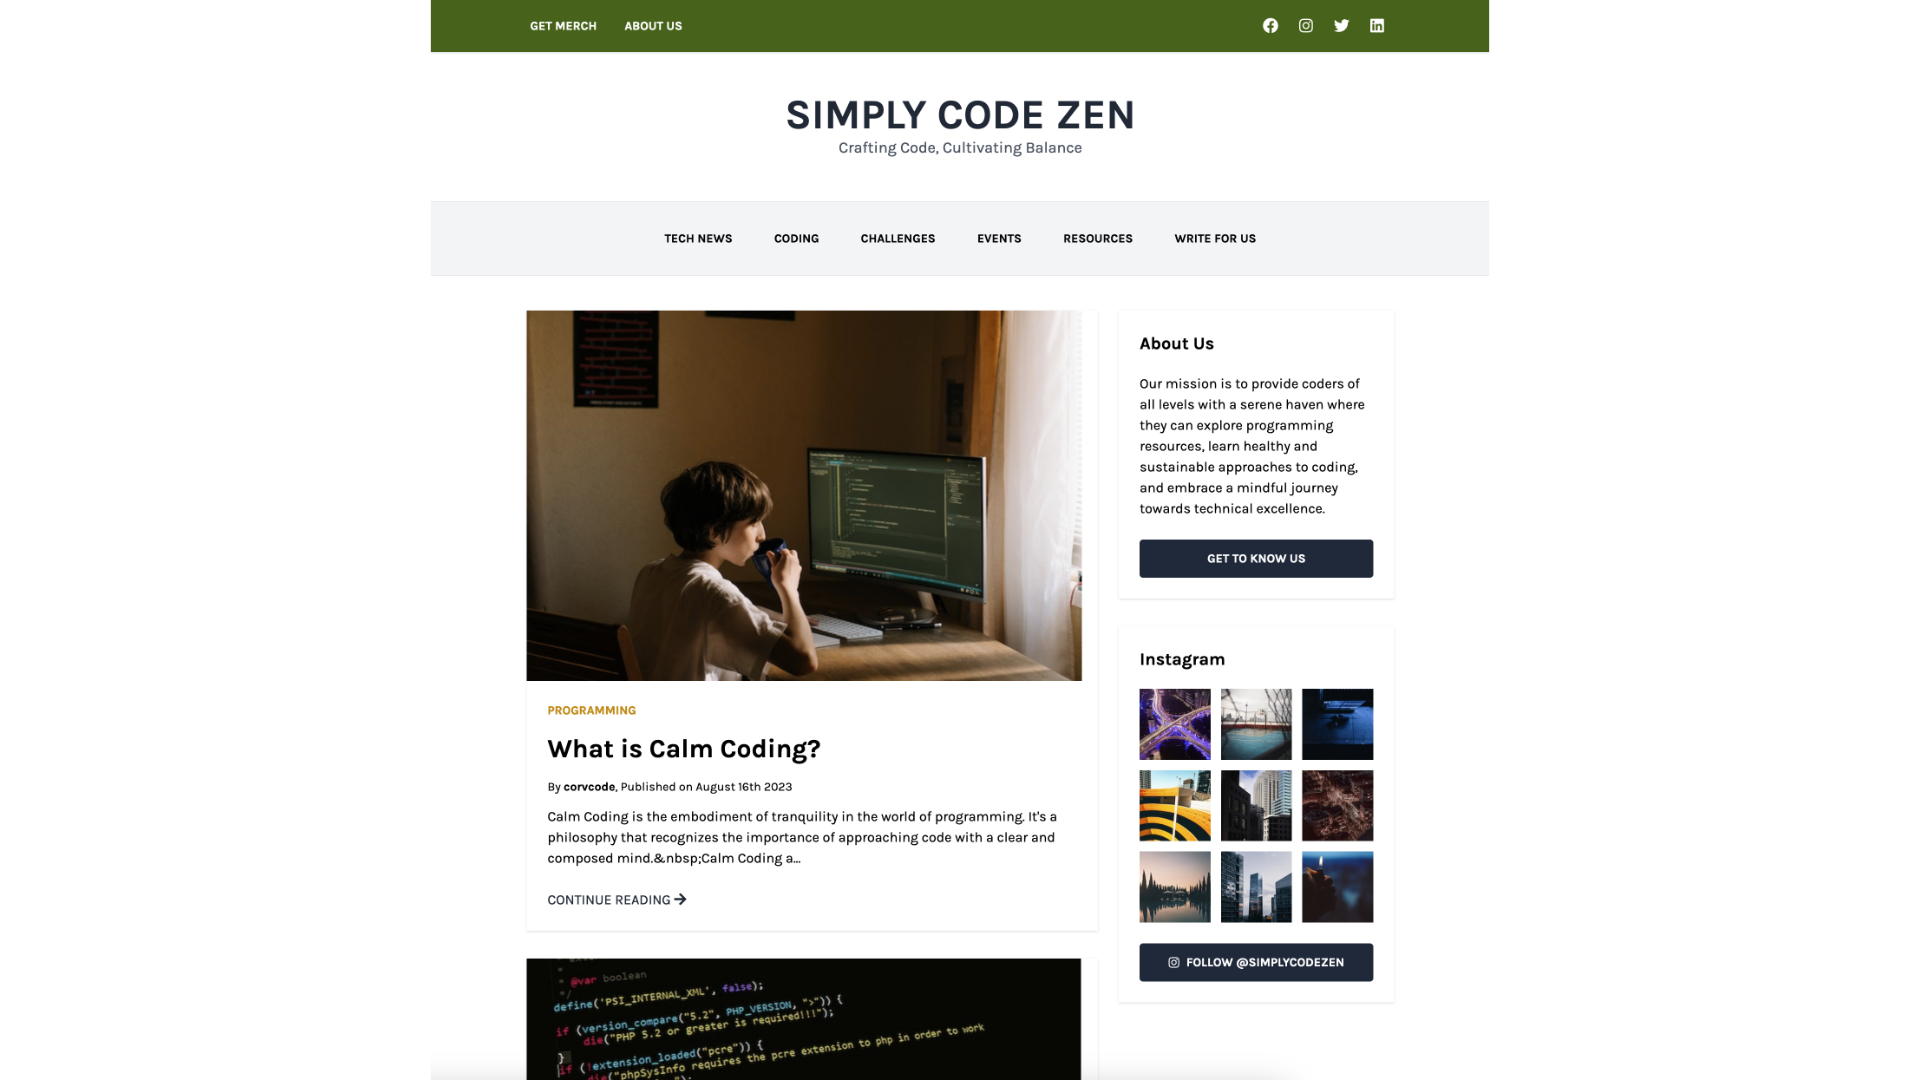
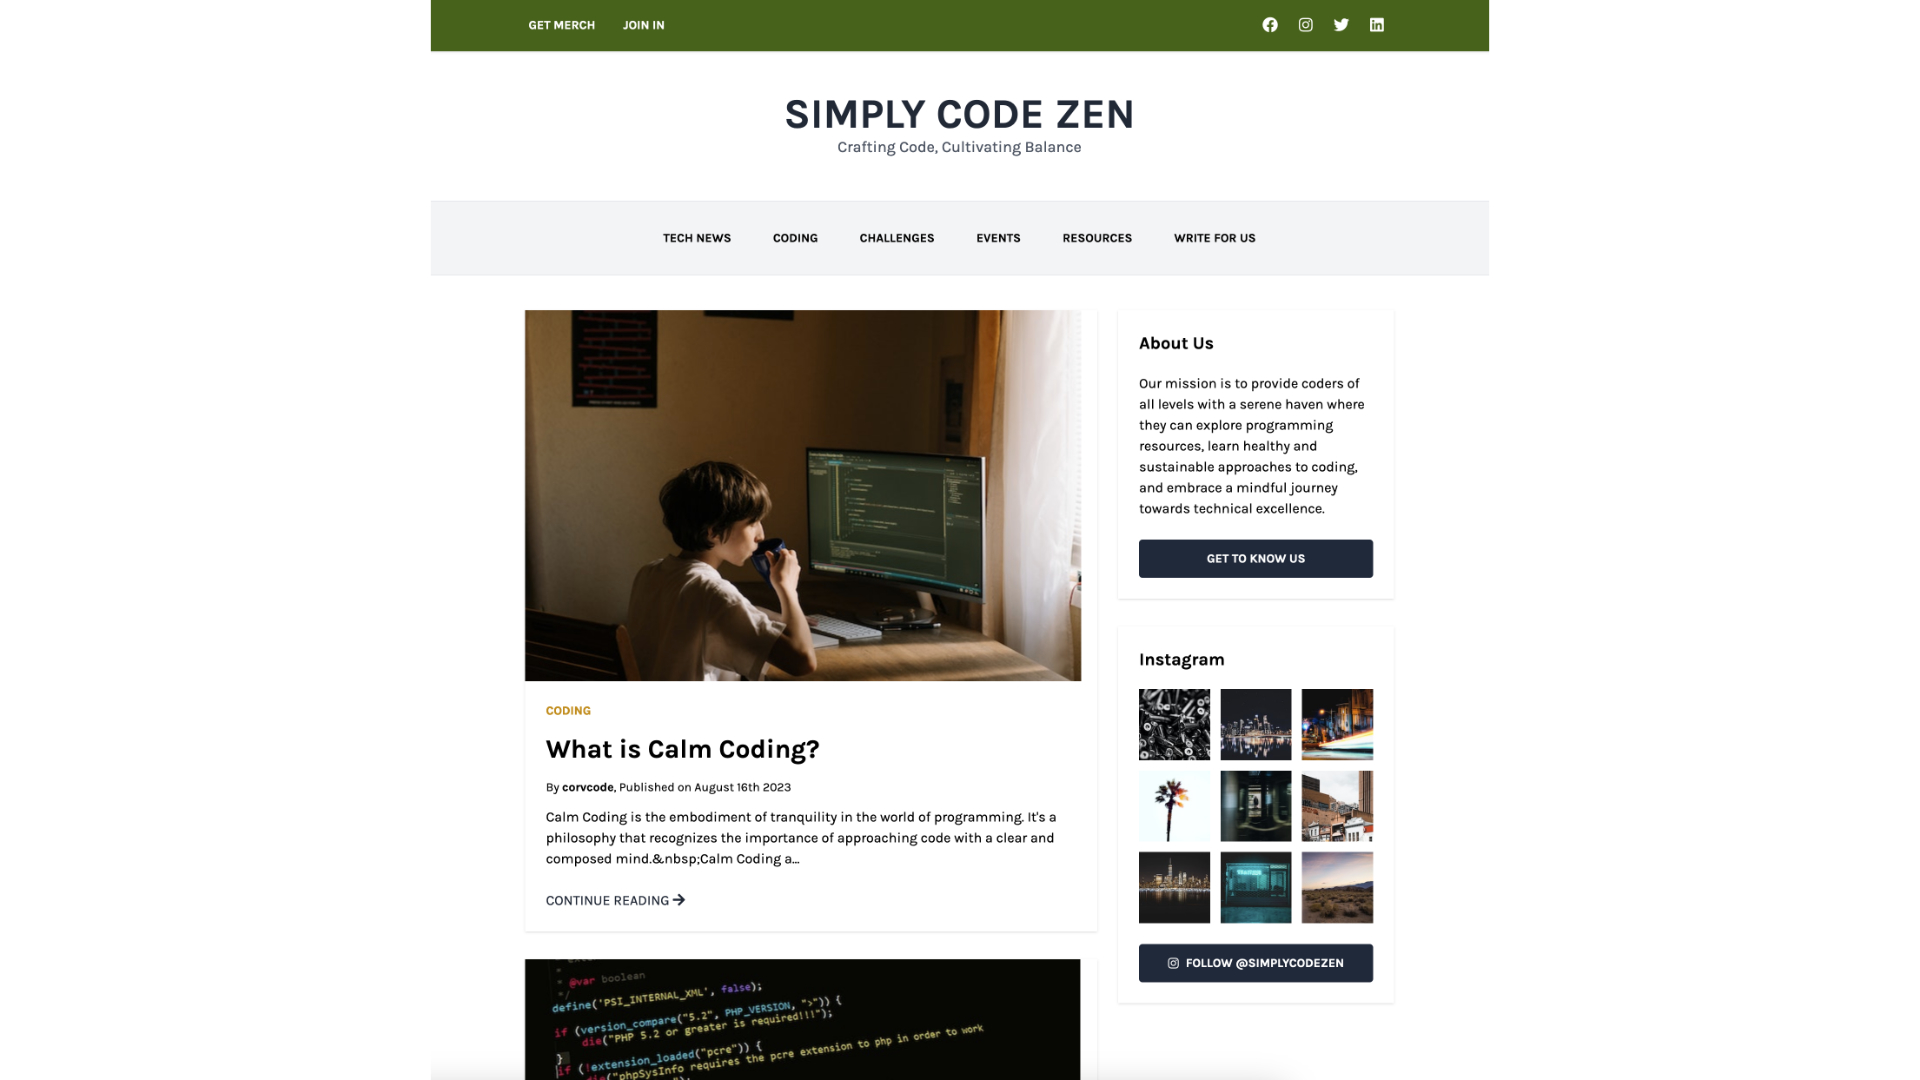
updating preview

diff --git a/resources/views/layouts/app.blade.php b/resources/views/layouts/app.blade.php
@@ -30,7 +30,7 @@
         <nav>
             <ul class="flex items-center justify-between font-bold text-sm text-white uppercase no-underline">
                 <li><a class="hover:text-gray-200 hover:underline px-4" href="#">Get Merch</a></li>
-                <li><a class="hover:text-gray-200 hover:underline px-4" href="#">About Us</a></li>
+                <li><a class="hover:text-gray-200 hover:underline px-4" href="#">Join In</a></li>
             </ul>
         </nav>
 
